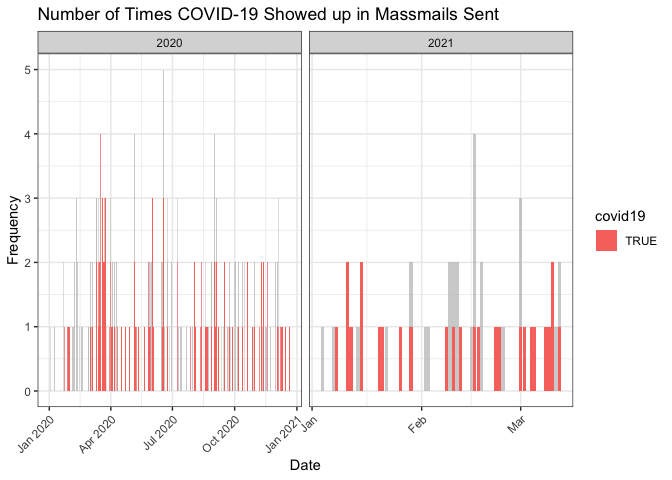
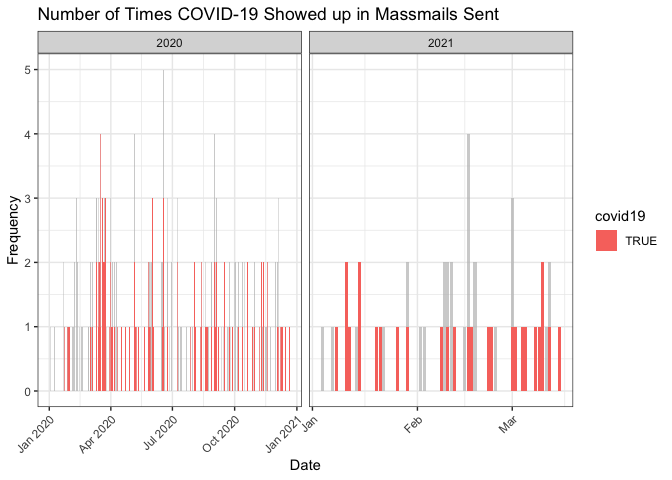
Re-build README.Rmd and Graphs

diff --git a/README.md b/README.md
@@ -17,7 +17,7 @@ The archive may be viewed here:
 
 <https://massmail.illinois.edu/massmailArchive>
 
-Data has **1304** observations and **7** variables:
+Data has **1305** observations and **7** variables:
 
   - `datetime`: Date and time when the email was sent in the form of
     `YYYY-MM-DD HMS` with either CDT or CST.
@@ -211,15 +211,15 @@ head(most_popular_words, 10) %>%
 | word        | freq |
 | :---------- | ---: |
 | students    |  862 |
-| university  |  800 |
+| university  |  801 |
 | campus      |  795 |
-| illinois    |  519 |
-| covid       |  479 |
-| faculty     |  433 |
-| community   |  427 |
+| illinois    |  520 |
+| covid       |  482 |
+| faculty     |  434 |
+| community   |  429 |
 | information |  371 |
-| staff       |  345 |
-| health      |  342 |
+| health      |  347 |
+| staff       |  346 |
 
 #### Wordcloud
 
